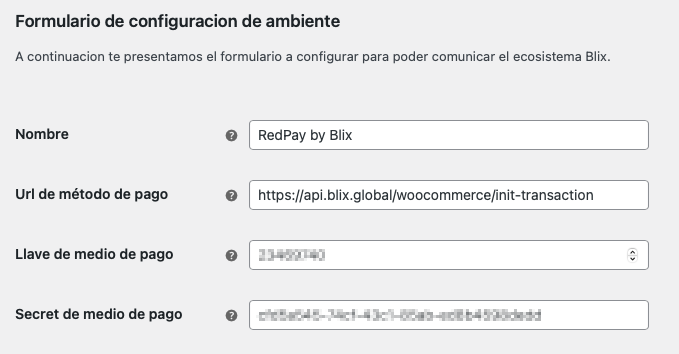
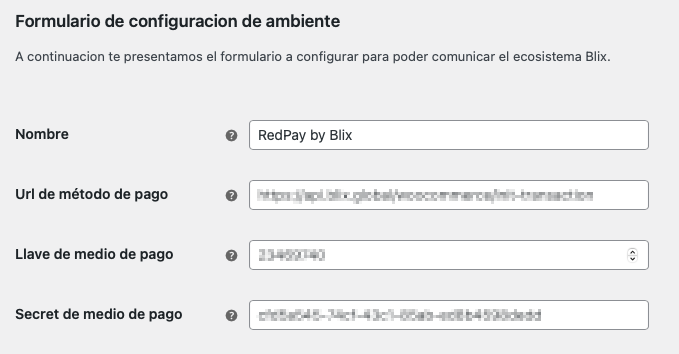
actualizacion imagenes y readme

Changed region(s): [[0.3711, 0.5282, 0.8969, 0.5904]]

diff --git a/class-wc-gateway-Blix.php b/class-wc-gateway-Blix.php
@@ -108,7 +108,7 @@ function blixInit()
                         'El URL donde proveemos información sobre tus pedidos a la cuenta de merchant.',
                         'woocommerce'
                     ),
-                    'default' => __('https://api.blix.global/woocommerce/init-transaction', 'woocommerce'),
+                    'default' => __('https://api.cobrar.blix.global/woocommerce/init-transaction', 'woocommerce'),
                     'desc_tip' => true,
                 ),
                 'merchantID' => array(

diff --git a/README.md b/README.md
@@ -54,7 +54,7 @@
 <p><strong>6.</strong> A continuación deberá rellenar el formulario con la siguiente información:</p>
       <ul>
         <li><strong>Nombre:</strong> RedPay by Blix</li>
-        <li><strong>Url del método de pago:</strong> https://api.blix.global/woocommerce/init-transaction</li>
+        <li><strong>Url del método de pago:</strong> https://api.cobrar.blix.global/woocommerce/init-transaction</li>
         <li><strong>Llave de medio de pago:</strong> Ingresa aquí el valor &laquo; <i>Client ID</i> &raquo; presente en la parte superior de está página.</li>
         <li><strong>Secreto de medio de pago:</strong> Ingresa aquí el valor &laquo; <i>Secreto</i> &raquo; presente en la parte superior de está página.</li>
       </ul>
